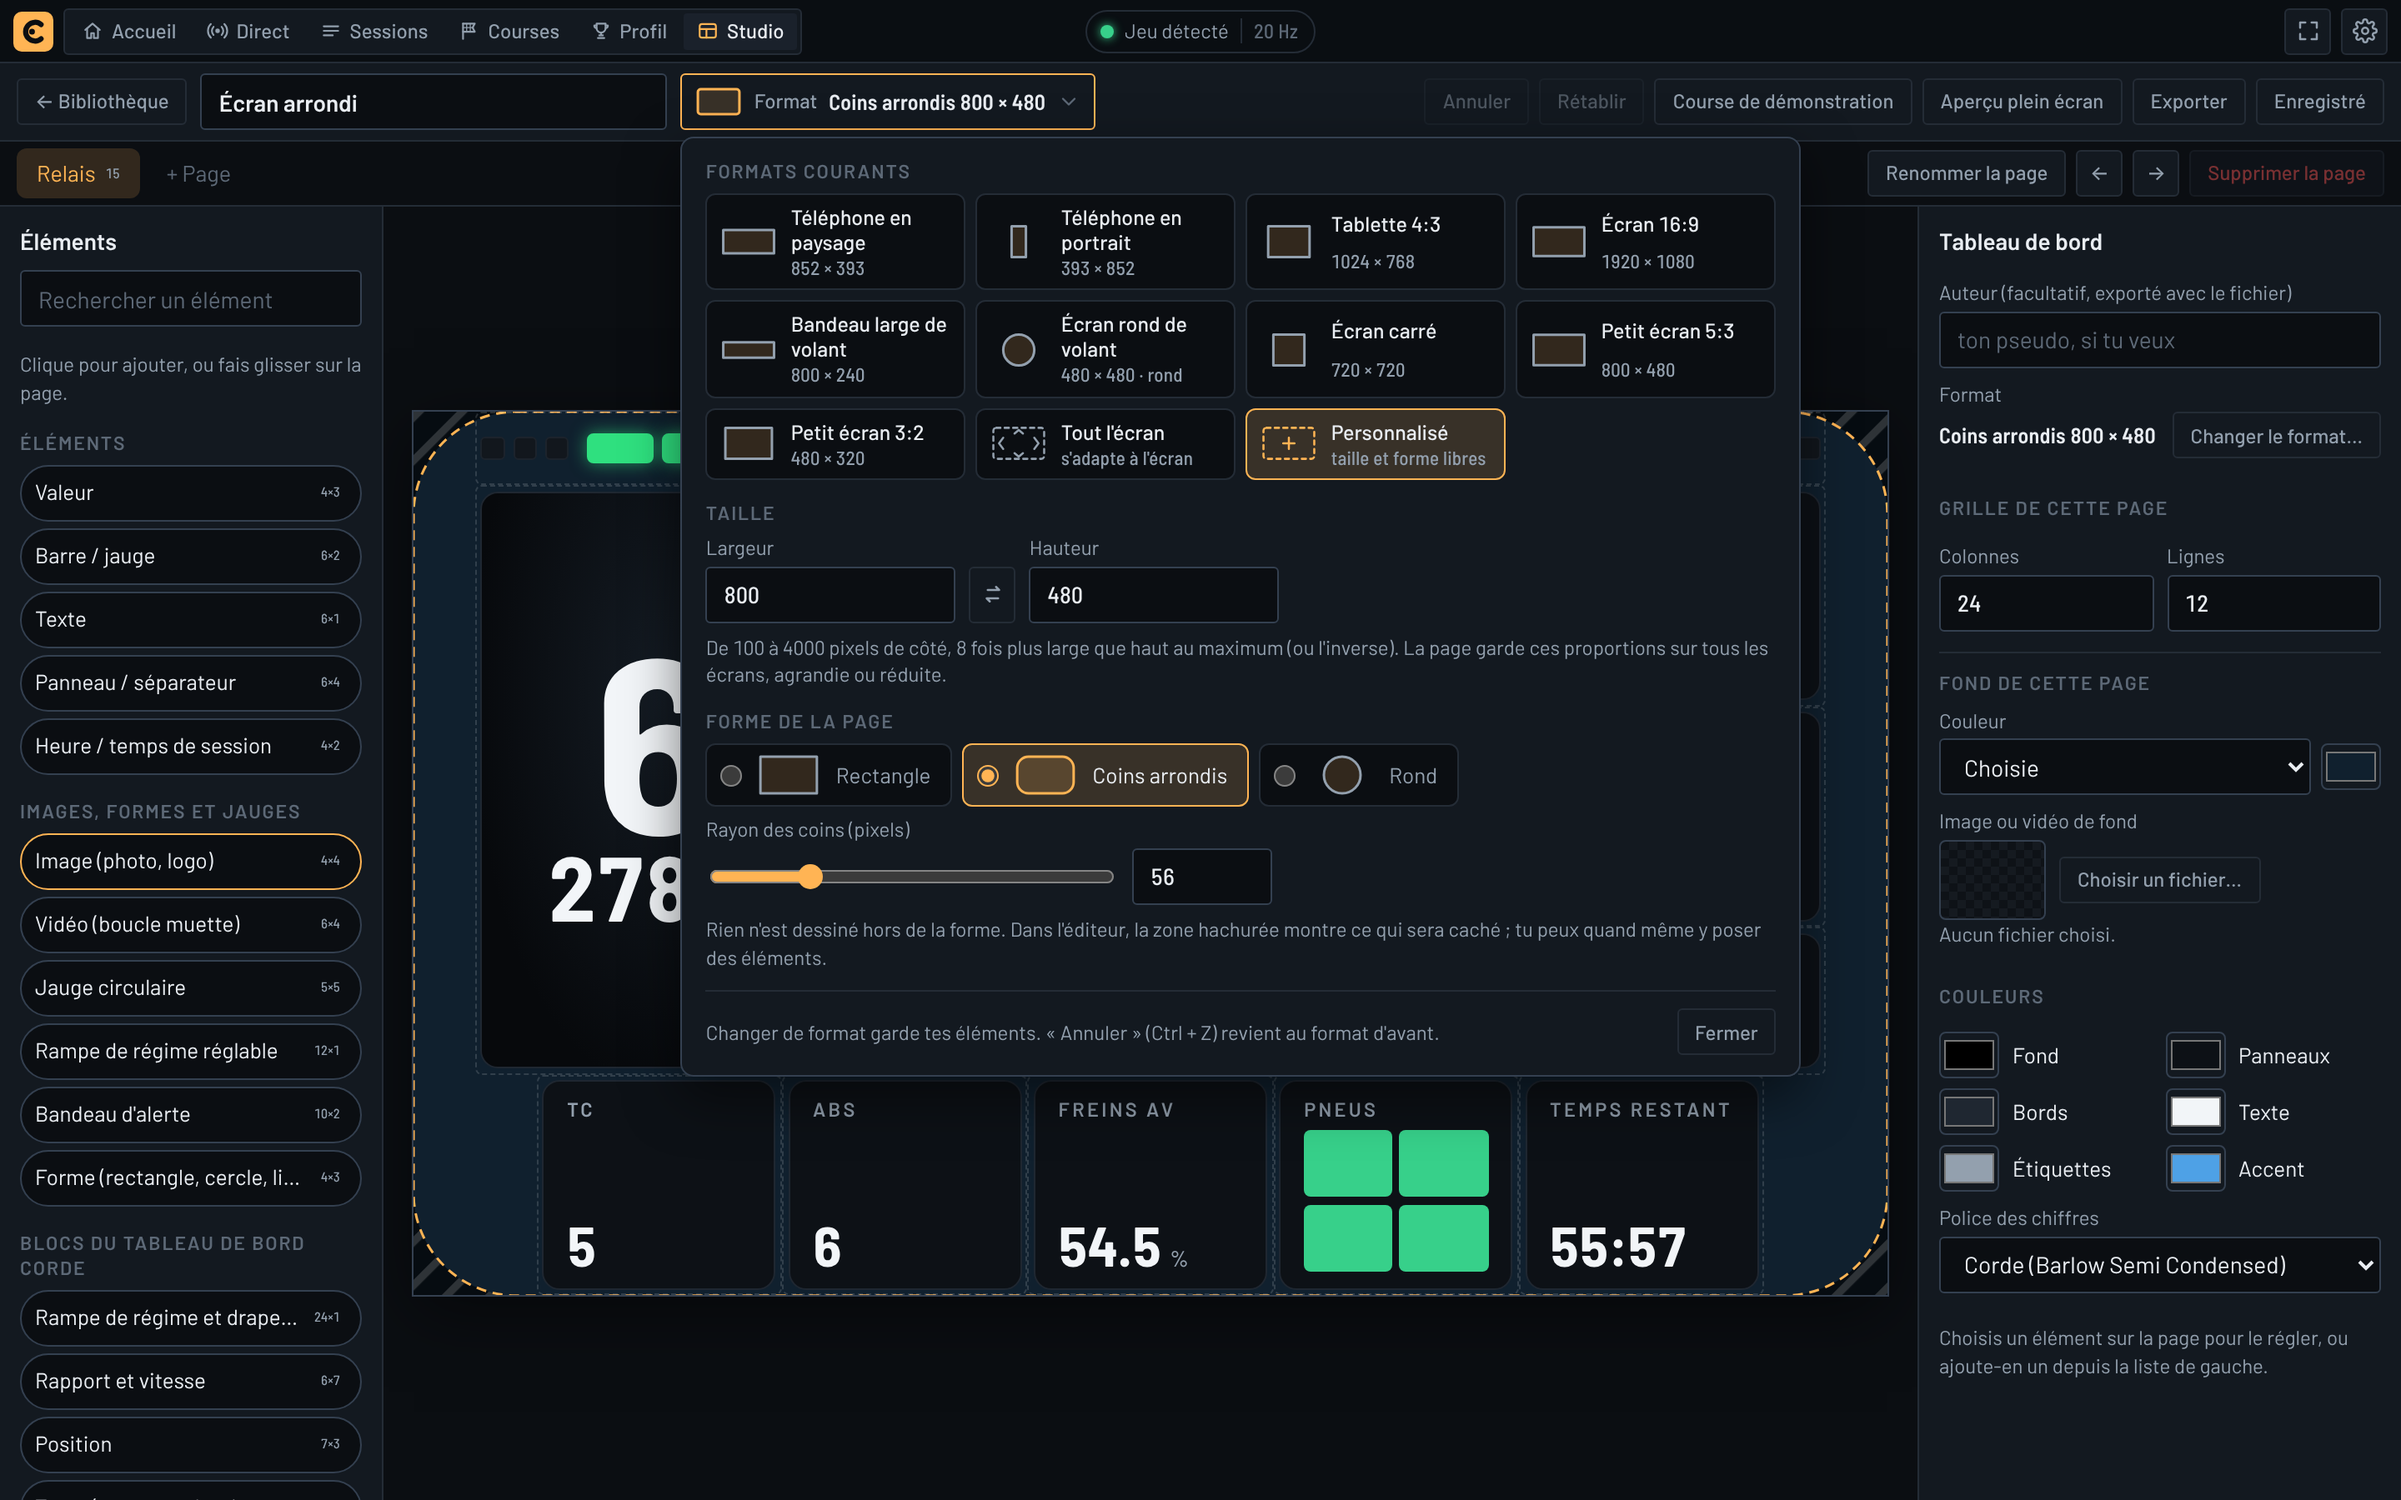
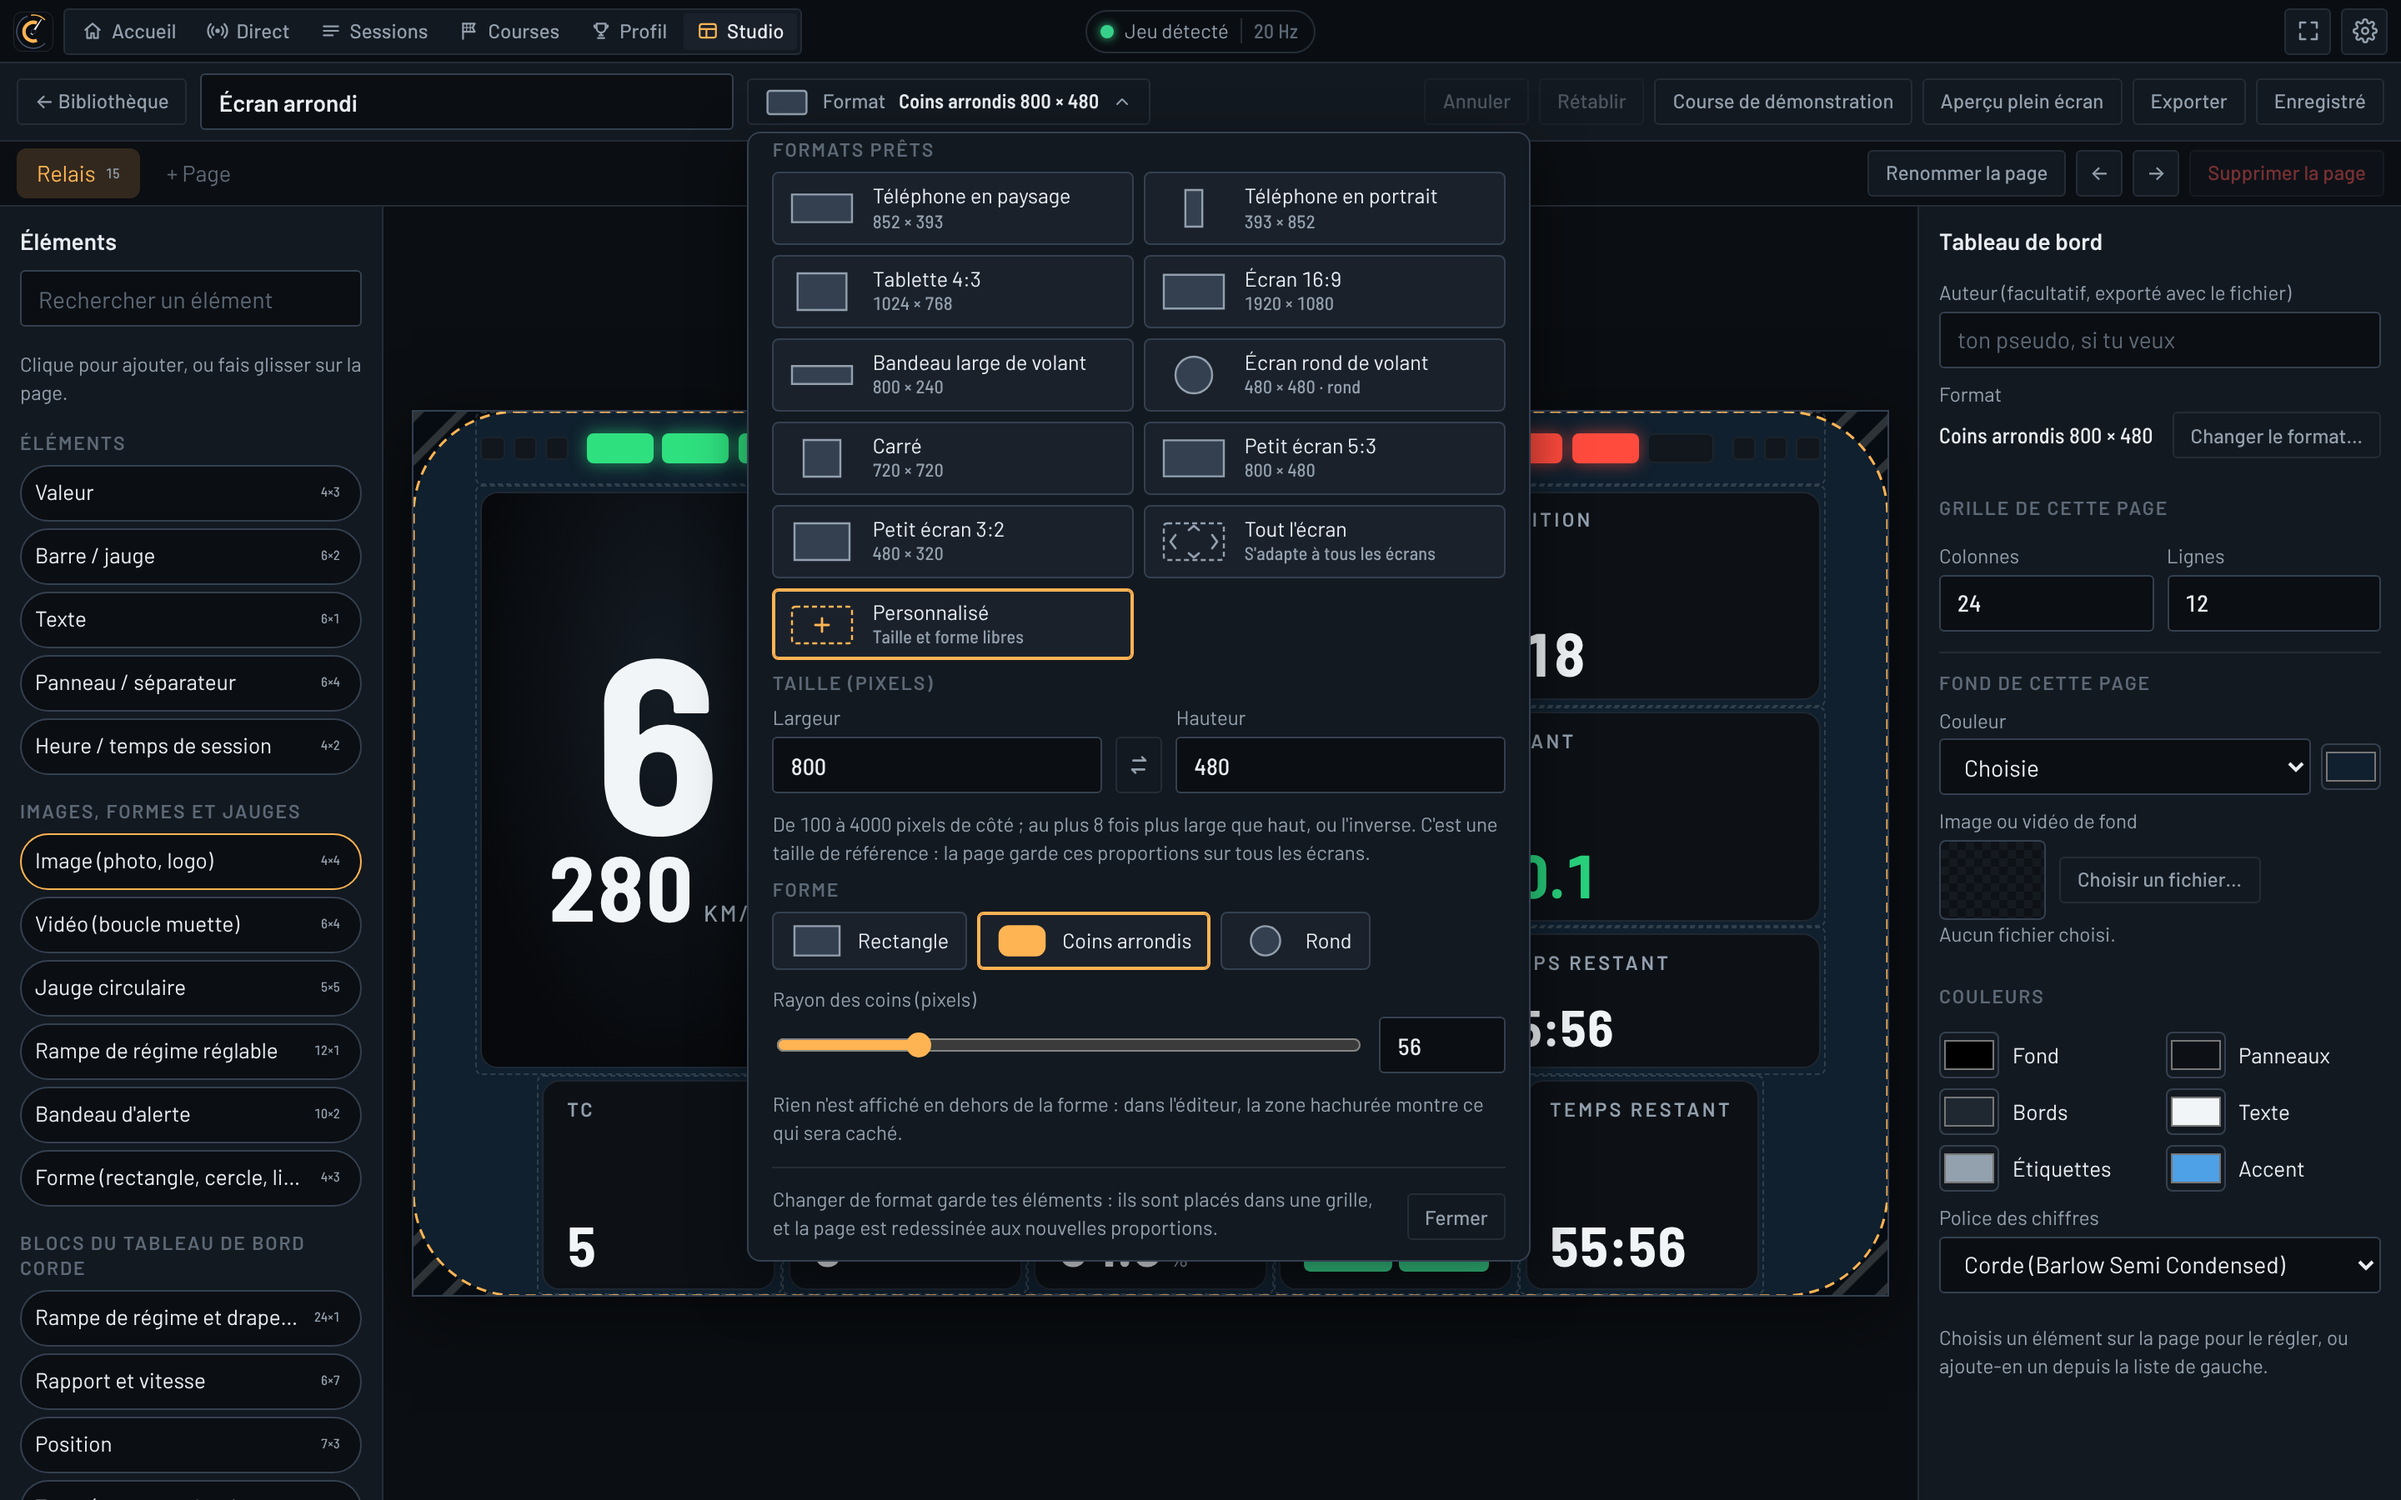
feat(studio): panneau Format habillé, dialogue « Nouveau tableau de bord », textes
- Style du contrôle « Format » (bouton, formats prêts avec leur dessin, taille, formes, rayon,
  conseil de grille) : il n'y en avait pas encore.
- Bibliothèque : « Nouveau » ouvre un dialogue où l'on choisit le modèle de départ et le format ;
  le format de chaque tableau de bord est écrit sur sa carte.
- Textes français et anglais du format (formats prêts, formes, conseils).
- Captures refaites avec le nouveau logo ; capture du dialogue ajoutée.

Claude-Session: https://claude.ai/code/session_01Tkn5C6AXYNnw4BUJ5wKaew

diff --git a/packages/ui/src/styles/studio.css b/packages/ui/src/styles/studio.css
@@ -555,3 +555,235 @@ dialog.sheet.studio-new {
 .studio-new-model input {
   accent-color: var(--accent);
 }
+
+/* ---- « Format » : le bouton de la barre de l'éditeur et son panneau (ADR 0018). Les mêmes
+   champs servent dans le dialogue « Nouveau tableau de bord ». ---- */
+.fmt-btn {
+  display: inline-flex;
+  align-items: center;
+  gap: 8px;
+}
+.fmt-btn-label {
+  color: var(--text-dim);
+}
+.fmt-btn-words {
+  color: var(--text);
+  font-weight: 600;
+}
+.fmt-btn > svg:last-child {
+  width: 12px;
+  height: 12px;
+  color: var(--text-dim);
+}
+.fmt-btn.is-open > svg:last-child {
+  transform: rotate(180deg);
+}
+.menu.fmt-panel {
+  width: min(470px, calc(100vw - 16px));
+  max-height: calc(100vh - 120px);
+  overflow: auto;
+  padding: 2px 14px 12px;
+}
+.fmt {
+  display: flex;
+  flex-direction: column;
+}
+.fmt-group {
+  border: 0;
+  margin: 0;
+  padding: 0;
+  min-width: 0;
+}
+.fmt-group > legend {
+  padding: 0;
+}
+.fmt-group + .fmt-group {
+  margin-top: 6px;
+}
+.fmt-group[disabled] > :not(legend):not(.fmt-hint) {
+  opacity: 0.45;
+}
+.fmt-glyph {
+  display: block;
+  flex: none;
+  width: 40px;
+  height: 26px;
+  overflow: visible;
+}
+.fmt-glyph .is-shape {
+  fill: var(--line-strong);
+  stroke: var(--text-dim);
+  stroke-width: 1.2px;
+  vector-effect: non-scaling-stroke;
+}
+.fmt-glyph .is-free {
+  fill: none;
+  stroke: var(--text-dim);
+  stroke-width: 1.2;
+  stroke-dasharray: 3 2;
+}
+.fmt-glyph path:not(.is-shape) {
+  fill: none;
+  stroke: var(--text-dim);
+  stroke-width: 1.4;
+  stroke-linecap: round;
+  stroke-linejoin: round;
+}
+.fmt-btn .fmt-glyph {
+  width: 26px;
+  height: 17px;
+}
+.fmt-presets {
+  display: grid;
+  grid-template-columns: repeat(2, minmax(0, 1fr));
+  gap: 6px;
+}
+.fmt-preset {
+  display: grid;
+  grid-template-columns: 40px minmax(0, 1fr);
+  column-gap: 10px;
+  align-items: center;
+  padding: 6px 9px;
+  border: 1px solid var(--line-strong);
+  border-radius: 4px;
+  background: var(--panel-raised);
+  color: var(--text);
+  font: inherit;
+  text-align: left;
+  cursor: pointer;
+  transition:
+    border-color 120ms,
+    color 120ms;
+}
+.fmt-preset .fmt-glyph {
+  grid-row: 1 / span 2;
+}
+.fmt-preset-name {
+  font-size: 12.5px;
+  line-height: 1.25;
+  overflow-wrap: anywhere;
+}
+.fmt-preset small {
+  font-size: 11px;
+  line-height: 1.3;
+}
+.fmt-preset:hover {
+  border-color: var(--accent);
+}
+.fmt-preset.is-on,
+.fmt-shape.is-on {
+  border-color: var(--accent);
+  box-shadow: inset 0 0 0 1px var(--accent);
+}
+.fmt-preset.is-on .fmt-glyph .is-shape,
+.fmt-shape.is-on .fmt-glyph .is-shape {
+  fill: var(--accent);
+  stroke: var(--accent);
+}
+.fmt-preset.is-on .fmt-glyph .is-free,
+.fmt-preset.is-on .fmt-glyph path:not(.is-shape) {
+  stroke: var(--accent);
+}
+.fmt-size {
+  display: flex;
+  align-items: flex-end;
+  gap: 8px;
+}
+.fmt-size .ins-field {
+  flex: 1;
+  min-width: 0;
+}
+.fmt-swap {
+  flex: none;
+  width: 34px;
+  height: 34px;
+  padding: 0;
+  display: inline-flex;
+  align-items: center;
+  justify-content: center;
+}
+.fmt-swap svg {
+  width: 16px;
+  height: 16px;
+}
+.fmt-hint.is-bad {
+  color: var(--hot);
+}
+.fmt-shapes {
+  display: flex;
+  flex-wrap: wrap;
+  gap: 6px;
+}
+.fmt-shape {
+  position: relative;
+  display: inline-flex;
+  align-items: center;
+  gap: 8px;
+  padding: 6px 10px;
+  border: 1px solid var(--line-strong);
+  border-radius: 4px;
+  background: var(--panel-raised);
+  font-size: 12.5px;
+  cursor: pointer;
+}
+.fmt-shape input {
+  position: absolute;
+  inset: 0;
+  margin: 0;
+  opacity: 0;
+  cursor: pointer;
+}
+.fmt-shape:hover {
+  border-color: var(--accent);
+}
+.fmt-shape:focus-within {
+  outline: 2px solid var(--accent);
+  outline-offset: 1px;
+}
+.fmt-shape .fmt-glyph {
+  width: 32px;
+  height: 21px;
+}
+.fmt-radius {
+  margin-top: 10px;
+}
+.fmt-radius .input {
+  width: 76px;
+  flex: none;
+}
+.fmt-advice {
+  margin-top: 12px;
+  padding: 10px 12px;
+  border: 1px solid var(--warm);
+  border-radius: 6px;
+  background: rgba(242, 182, 60, 0.08);
+  font-size: 12.5px;
+  line-height: 1.4;
+}
+.fmt-advice p {
+  margin: 0 0 8px;
+}
+.fmt-advice p:last-child {
+  margin-bottom: 0;
+}
+.fmt-foot {
+  display: flex;
+  align-items: flex-end;
+  gap: 12px;
+  margin-top: 12px;
+  padding-top: 10px;
+  border-top: 1px solid var(--line);
+}
+.fmt-foot p {
+  flex: 1;
+  margin: 0;
+}
+.fmt-foot .btn {
+  flex: none;
+}
+.ins-format {
+  display: flex;
+  align-items: center;
+  justify-content: space-between;
+  gap: 8px;
+}

diff --git a/packages/ui/src/i18n/en.ts b/packages/ui/src/i18n/en.ts
@@ -1585,8 +1585,8 @@ export const en: Record<TranslationKey, string> = {
   "studio.format.title": "Format of the dashboard",
   "studio.format.change": "Change the format…",
   "studio.format.presets": "Ready-made formats",
-  "studio.format.anySize": "Any size, any shape",
-  "studio.format.free": "Follows the screen that shows it",
+  "studio.format.anySize": "Adapts to every screen",
+  "studio.format.free": "Free size and shape",
   "studio.format.size": "Size (pixels)",
   "studio.format.swap": "Swap width and height",
   "studio.format.sizeHint":

diff --git a/packages/ui/src/i18n/fr.ts b/packages/ui/src/i18n/fr.ts
@@ -1637,8 +1637,8 @@ export const fr = {
   "studio.format.title": "Format du tableau de bord",
   "studio.format.change": "Changer le format…",
   "studio.format.presets": "Formats prêts",
-  "studio.format.anySize": "Toute taille, toute forme",
-  "studio.format.free": "Suit l'écran qui l'affiche",
+  "studio.format.anySize": "S'adapte à tous les écrans",
+  "studio.format.free": "Taille et forme libres",
   "studio.format.size": "Taille (pixels)",
   "studio.format.swap": "Inverser largeur et hauteur",
   "studio.format.sizeHint":

diff --git a/packages/ui/src/studio/Library.tsx b/packages/ui/src/studio/Library.tsx
@@ -100,7 +100,7 @@ function NewDashDialog({
         >
           <div className="sheet-head">{t("studio.newTitle")}</div>
           <div className="sheet-body">
-            <fieldset className="fmt-set studio-new-models">
+            <fieldset className="fmt-group studio-new-models">
               <legend className="ins-sub">{t("studio.newModel")}</legend>
               {TEMPLATE_IDS.map((tid) => (
                 <label key={tid} className="studio-new-model">

diff --git a/docs/PRESENTATION.md b/docs/PRESENTATION.md
@@ -115,7 +115,8 @@ Depuis la 1.3.0 :
 - Les images et vidéos viennent uniquement de fichiers choisis sur le PC : jamais d'un lien internet.
 - Pas encore dans le Studio : formules, sons.
 
-Images : `studio-onglet.png` (l'onglet Studio dans la barre du haut, et la bibliothèque), `studio-format.png`
+Images : `studio-onglet.png` (l'onglet Studio dans la barre du haut, et la bibliothèque), `studio-nouveau.png`
+(le dialogue « Nouveau tableau de bord » : modèle de départ et format), `studio-format.png`
 (le panneau « Format » ouvert : formats courants, taille, forme), `studio-rond.png` (un tableau de bord rond
 dans l'éditeur, l'extérieur du cercle hachuré), `studio-edition.png` (l'éditeur : éléments à gauche, page au
 centre, propriétés à droite — capture d'avant l'onglet), `studio-image.png` (un logo ajouté à une page, ses
